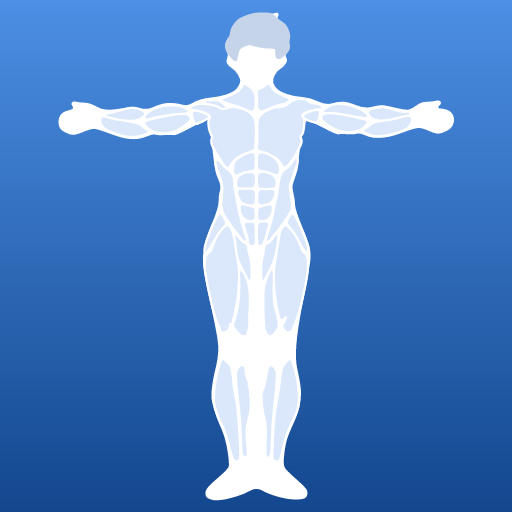
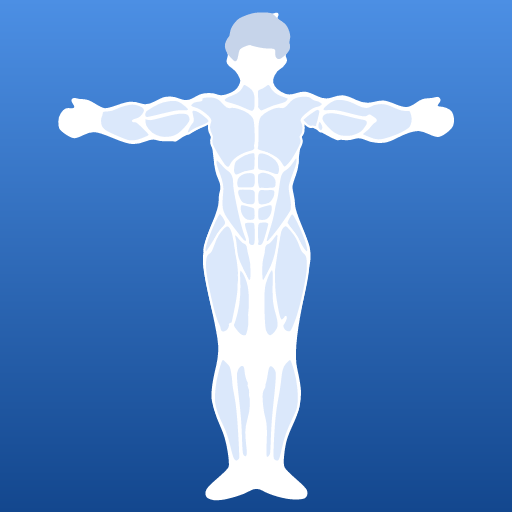
アイコンのTポーズの人の腕を太く（特に肩）
真横に回した腕を太さ方向に引き伸ばす（肩で約1.45倍、手に向かって約1.15倍）。
記録が空の日のイラストも同じ形になる。

Changed region(s): [[0.125, 0.1562, 0.4375, 0.2812], [0.5625, 0.1562, 0.875, 0.2812]]

diff --git a/src/illustrations/tposeShapes.ts b/src/illustrations/tposeShapes.ts
@@ -1,24 +1,21 @@
 // このファイルは scripts/make-tpose.py で自動生成（人の図を T ポーズに組み替えたもの。アプリアイコン用）
 
 export const TPOSE_VIEWBOX = { width: 461, height: 567 };
-export const TPOSE_BASE = 'M191.5 564.8Q187.0 565.3 184.5 565.4Q182.0 565.5 178.5 564.4Q175.0 563.3 173.9 562.1Q172.8 561.0 172.2 558.5Q171.6 556.0 173.5 552.5Q175.5 549.0 186.5 539.5Q197.5 530.0 198.8 527.0Q200.2 524.0 197.7 508.5Q195.3 493.0 190.0 481.5Q184.8 470.0 182.1 460.5Q179.5 451.0 179.2 447.5Q178.8 444.0 179.7 435.5Q180.5 427.0 184.5 410.5Q188.5 394.0 186.0 378.5Q183.5 363.0 177.0 334.0Q170.5 305.0 169.5 294.0Q168.5 283.0 171.1 271.5Q173.7 260.0 180.5 244.0Q187.3 228.0 187.4 220.5Q187.5 213.0 188.5 210.0Q189.5 207.0 189.4 203.5Q189.3 200.0 187.0 195.0Q184.7 190.0 183.6 185.0Q182.5 180.0 179.5 153.5Q176.4 127.0 175.7 126.4Q175.0 125.8 170.5 127.8Q166.0 129.8 152.0 137.2Q138.0 144.7 135.5 144.1Q133.0 143.5 125.0 144.0Q117.0 144.5 114.5 143.5Q112.0 142.6 106.5 144.9Q101.0 147.3 95.5 148.2Q90.0 149.2 82.5 148.2Q75.0 147.3 61.0 142.0Q47.0 136.8 43.5 136.8Q40.0 136.8 31.0 140.5Q22.0 144.2 18.5 143.7Q15.0 143.3 10.8 141.1Q6.6 139.0 4.7 136.5Q2.8 134.0 2.6 129.0Q2.5 124.0 5.3 120.4Q8.0 116.8 14.6 115.4Q21.2 114.0 19.0 111.0Q16.8 108.0 18.4 106.3Q20.0 104.6 23.0 105.5Q26.0 106.5 32.5 106.6Q39.0 106.7 47.5 111.6Q56.0 116.5 71.5 113.8Q87.0 111.1 96.0 113.0Q105.0 114.9 110.5 112.3Q116.0 109.7 122.0 108.1Q128.0 106.5 134.5 107.0Q141.0 107.5 146.0 109.0Q151.0 110.5 156.0 107.6Q161.0 104.8 165.5 103.3Q170.0 101.7 179.5 100.6Q189.0 99.5 195.5 97.4Q202.0 95.3 205.5 92.8Q209.0 90.4 210.7 86.7Q212.5 83.0 212.4 81.0Q212.2 79.0 209.6 74.3Q207.0 69.7 203.0 67.1Q199.0 64.5 197.3 61.7Q195.6 59.0 197.2 55.5Q198.9 52.0 197.3 48.0Q195.7 44.0 195.6 41.5Q195.5 39.0 196.1 37.0Q196.8 35.0 199.0 32.5Q201.2 30.0 202.0 25.0Q202.7 20.0 205.4 16.3Q208.0 12.5 213.0 9.6Q218.0 6.7 225.0 5.1Q232.0 3.5 240.5 4.0Q249.0 4.5 252.0 3.3Q255.0 2.1 256.1 3.6Q257.2 5.0 255.8 7.5Q254.4 10.0 257.4 11.5Q260.4 13.0 263.2 15.8Q266.0 18.7 267.7 24.8Q269.5 31.0 268.5 33.5Q267.6 36.0 268.5 38.0Q269.5 40.0 269.4 42.0Q269.3 44.0 266.7 48.0Q264.1 52.0 265.2 54.0Q266.3 56.0 266.3 58.0Q266.3 60.0 263.6 63.2Q261.0 66.5 258.0 68.1Q255.0 69.6 252.3 74.8Q249.5 80.0 250.6 84.0Q251.7 88.0 255.4 91.1Q259.0 94.3 267.0 96.9Q275.0 99.5 284.0 100.1Q293.0 100.7 302.0 105.1Q311.0 109.4 318.0 107.5Q325.0 105.5 330.5 105.5Q336.0 105.5 346.0 109.5Q356.0 113.5 364.0 111.5Q372.0 109.5 375.5 109.5Q379.0 109.5 391.5 112.5Q404.0 115.5 407.5 114.4Q411.0 113.3 416.0 109.5Q421.0 105.7 427.5 105.6Q434.0 105.5 437.5 104.5Q441.0 103.6 442.5 104.6Q444.0 105.7 444.1 106.8Q444.2 108.0 441.6 110.5Q439.1 113.0 443.0 113.3Q447.0 113.5 450.7 114.8Q454.3 116.0 456.3 118.5Q458.3 121.0 458.9 124.5Q459.5 128.0 457.7 132.2Q456.0 136.5 450.0 139.5Q444.0 142.5 440.5 142.4Q437.0 142.3 429.5 139.0Q422.0 135.7 418.0 135.8Q414.0 135.8 400.0 141.0Q386.0 146.3 377.5 146.9Q369.0 147.5 365.0 146.9Q361.0 146.3 355.5 143.9Q350.0 141.5 346.5 142.5Q343.0 143.5 335.5 143.0Q328.0 142.5 326.0 143.2Q324.0 143.9 309.5 136.3Q295.0 128.8 290.5 127.4Q285.9 126.0 282.7 148.5Q279.5 171.0 279.5 176.5Q279.5 182.0 276.1 191.5Q272.7 201.0 272.6 203.5Q272.5 206.0 274.0 212.5Q275.5 219.0 275.6 224.5Q275.7 230.0 283.5 249.0Q291.3 268.0 292.4 273.0Q293.5 278.0 293.5 285.0Q293.5 292.0 283.5 342.5Q273.5 393.0 278.0 413.0Q282.5 433.0 282.5 441.5Q282.5 450.0 280.4 458.5Q278.3 467.0 272.5 479.5Q266.7 492.0 265.1 499.5Q263.5 507.0 262.8 515.5Q262.1 524.0 263.5 527.2Q265.0 530.5 276.7 540.7Q288.5 551.0 289.4 554.0Q290.3 557.0 289.6 559.2Q289.0 561.3 287.0 562.8Q285.0 564.3 276.5 564.4Q268.0 564.5 256.5 561.4Q245.0 558.2 238.0 554.2Q231.0 550.1 224.0 554.2Q217.0 558.3 206.5 561.3Q196.0 564.3 191.5 564.8Z';
+export const TPOSE_BASE = 'M191.5 564.8Q187.0 565.3 184.5 565.4Q182.0 565.5 178.5 564.4Q175.0 563.3 173.9 562.1Q172.8 561.0 172.2 558.5Q171.6 556.0 173.5 552.5Q175.5 549.0 186.5 539.5Q197.5 530.0 198.8 527.0Q200.2 524.0 197.7 508.5Q195.3 493.0 190.0 481.5Q184.8 470.0 182.1 460.5Q179.5 451.0 179.2 447.5Q178.8 444.0 179.7 435.5Q180.5 427.0 184.5 410.5Q188.5 394.0 186.0 378.5Q183.5 363.0 177.0 334.0Q170.5 305.0 169.5 294.0Q168.5 283.0 171.1 271.5Q173.7 260.0 180.5 244.0Q187.3 228.0 187.4 220.5Q187.5 213.0 188.5 210.0Q189.5 207.0 189.4 203.5Q189.3 200.0 187.0 195.0Q184.7 190.0 183.6 185.0Q182.5 180.0 179.9 156.5Q177.3 133.0 176.6 132.2Q176.0 131.3 174.5 131.5Q173.0 131.8 165.0 136.5Q157.0 141.2 151.5 143.5Q146.0 145.8 142.0 149.0Q138.0 152.2 136.5 151.5Q135.0 150.8 127.5 151.1Q120.0 151.5 115.5 149.8Q111.0 148.1 103.5 151.2Q96.0 154.3 89.0 154.4Q82.0 154.5 65.5 147.5Q49.0 140.5 43.5 140.6Q38.0 140.7 31.5 144.0Q25.0 147.3 21.5 147.6Q18.0 147.9 11.4 143.5Q4.7 139.0 3.6 136.5Q2.5 134.0 2.5 128.5Q2.5 123.0 5.3 118.9Q8.0 114.7 10.5 113.6Q13.0 112.5 15.5 113.0Q18.0 113.4 20.0 112.7Q22.0 112.0 19.3 108.0Q16.6 104.0 18.3 102.3Q20.0 100.6 23.0 101.5Q26.0 102.5 31.5 102.6Q37.0 102.7 44.5 107.5Q52.0 112.2 55.5 112.9Q59.0 113.5 70.0 109.5Q81.0 105.5 86.5 105.5Q92.0 105.5 98.5 107.7Q105.0 109.9 113.5 105.3Q122.0 100.7 125.0 100.1Q128.0 99.5 132.5 99.6Q137.0 99.7 144.0 102.5Q151.0 105.2 157.5 101.5Q164.0 97.7 167.5 96.6Q171.0 95.5 176.5 95.5Q182.0 95.5 186.0 97.2Q190.0 98.9 196.0 97.1Q202.0 95.3 205.5 92.8Q209.0 90.4 210.7 86.7Q212.5 83.0 212.4 81.0Q212.2 79.0 209.6 74.3Q207.0 69.7 203.0 67.1Q199.0 64.5 197.3 61.7Q195.6 59.0 197.2 55.5Q198.9 52.0 197.3 48.0Q195.7 44.0 195.6 41.5Q195.5 39.0 196.1 37.0Q196.8 35.0 199.0 32.5Q201.2 30.0 202.0 25.0Q202.7 20.0 205.4 16.3Q208.0 12.5 213.0 9.6Q218.0 6.7 225.0 5.1Q232.0 3.5 240.5 4.0Q249.0 4.5 252.0 3.3Q255.0 2.1 256.1 3.6Q257.2 5.0 255.8 7.5Q254.4 10.0 257.4 11.5Q260.4 13.0 263.2 15.8Q266.0 18.7 267.7 24.8Q269.5 31.0 268.5 33.5Q267.6 36.0 268.5 38.0Q269.5 40.0 269.4 42.0Q269.3 44.0 266.7 48.0Q264.1 52.0 265.2 54.0Q266.3 56.0 266.3 58.0Q266.3 60.0 263.6 63.2Q261.0 66.5 258.0 68.1Q255.0 69.6 252.3 74.8Q249.5 80.0 250.6 84.0Q251.7 88.0 255.4 91.1Q259.0 94.3 264.0 96.2Q269.0 98.2 276.0 95.9Q283.0 93.6 287.5 94.0Q292.0 94.5 301.0 99.0Q310.0 103.5 318.0 100.6Q326.0 97.8 331.0 98.2Q336.0 98.5 346.0 103.4Q356.0 108.3 365.5 105.9Q375.0 103.5 379.5 104.4Q384.0 105.3 392.0 108.6Q400.0 111.9 404.5 111.6Q409.0 111.3 415.5 106.5Q422.0 101.7 428.0 101.6Q434.0 101.5 437.5 100.3Q441.0 99.1 442.7 101.6Q444.5 104.0 441.5 107.5Q438.5 111.0 442.3 111.0Q446.0 111.1 450.5 112.8Q455.0 114.5 456.6 117.3Q458.3 120.0 458.9 124.5Q459.5 129.0 458.0 133.0Q456.5 137.0 450.2 141.6Q444.0 146.2 440.5 146.2Q437.0 146.3 430.0 143.0Q423.0 139.7 418.5 139.4Q414.0 139.1 407.0 141.4Q400.0 143.8 393.0 147.5Q386.0 151.3 381.0 152.4Q376.0 153.5 369.0 152.9Q362.0 152.3 356.0 149.4Q350.0 146.6 344.0 148.5Q338.0 150.5 332.5 149.8Q327.0 149.1 325.5 150.0Q324.0 150.9 306.0 140.8Q288.0 130.8 287.0 130.9Q285.9 131.0 282.7 151.0Q279.5 171.0 279.5 176.5Q279.5 182.0 276.1 191.5Q272.7 201.0 272.6 203.5Q272.5 206.0 274.0 212.5Q275.5 219.0 275.6 224.5Q275.7 230.0 283.5 249.0Q291.3 268.0 292.4 273.0Q293.5 278.0 293.5 285.0Q293.5 292.0 283.5 342.5Q273.5 393.0 278.0 413.0Q282.5 433.0 282.5 441.5Q282.5 450.0 280.4 458.5Q278.3 467.0 272.5 479.5Q266.7 492.0 265.1 499.5Q263.5 507.0 262.8 515.5Q262.1 524.0 263.5 527.2Q265.0 530.5 276.7 540.7Q288.5 551.0 289.4 554.0Q290.3 557.0 289.6 559.2Q289.0 561.3 287.0 562.8Q285.0 564.3 276.5 564.4Q268.0 564.5 256.5 561.4Q245.0 558.2 238.0 554.2Q231.0 550.1 224.0 554.2Q217.0 558.3 206.5 561.3Q196.0 564.3 191.5 564.8Z';
 export const TPOSE_HAIR = 'M208.1 58.1Q207.0 59.2 206.0 58.8Q205.0 58.5 201.4 54.7Q197.7 51.0 196.2 47.5Q194.7 44.0 194.6 41.5Q194.5 39.0 196.0 35.5Q197.6 32.0 198.8 31.0Q200.1 30.0 200.4 26.5Q200.8 23.0 202.3 20.0Q203.7 17.0 206.4 13.9Q209.0 10.7 211.5 9.2Q214.0 7.7 219.5 5.7Q225.0 3.7 228.5 3.1Q232.0 2.5 238.5 2.5Q245.0 2.5 247.7 3.3Q250.3 4.0 253.0 7.0Q255.6 10.0 259.0 12.0Q262.3 14.0 264.3 16.0Q266.3 18.0 267.8 21.5Q269.3 25.0 269.8 28.0Q270.4 31.0 269.5 34.0Q268.5 37.0 269.5 40.0Q270.5 43.0 269.0 46.0Q267.5 49.0 263.4 52.5Q259.3 56.0 257.7 56.2Q256.0 56.5 254.8 55.7Q253.6 55.0 253.0 53.0Q252.5 51.0 252.8 47.5Q253.0 44.0 247.5 44.2Q242.0 44.5 234.0 42.9Q226.0 41.2 224.5 40.4Q223.0 39.6 217.8 41.8Q212.5 44.0 211.6 46.0Q210.7 48.0 210.0 52.5Q209.2 57.0 208.1 58.1Z';
 export const TPOSE_MUSCLES = [
-  'M227.5 116.8Q226.0 118.2 218.0 114.5Q210.0 110.7 202.5 108.8Q195.0 106.9 192.8 105.5Q190.6 104.0 190.6 103.0Q190.6 102.0 199.3 98.6Q208.0 95.2 210.5 92.8Q213.0 90.4 214.3 87.7Q215.5 85.0 216.8 84.8Q218.0 84.6 224.1 88.8Q230.2 93.0 230.2 102.5Q230.2 112.0 229.6 113.7Q229.0 115.3 227.5 116.8Z',
-  'M247.0 113.0Q237.0 117.2 236.0 116.8Q235.0 116.5 233.1 114.2Q231.1 112.0 231.7 110.5Q232.2 109.0 231.7 101.0Q231.1 93.0 232.1 91.9Q233.0 90.8 235.5 90.0Q238.0 89.3 241.0 86.9Q244.0 84.6 245.2 84.8Q246.5 85.0 248.1 88.0Q249.7 91.0 251.4 92.6Q253.0 94.3 261.2 98.1Q269.4 102.0 269.4 103.0Q269.4 104.0 267.2 106.1Q265.0 108.2 261.0 108.5Q257.0 108.7 247.0 113.0Z',
-  'M268.1 178.1Q264.0 182.2 262.8 181.6Q261.5 181.0 259.8 177.8Q258.0 174.6 256.0 172.7Q254.0 170.7 248.5 167.7Q243.0 164.7 238.0 163.5Q233.0 162.2 231.9 161.1Q230.8 160.0 231.5 158.0Q232.2 156.0 232.0 141.0Q231.8 126.0 233.9 123.3Q236.0 120.5 238.5 118.6Q241.0 116.7 246.0 114.2Q251.0 111.7 257.0 111.7Q263.0 111.7 267.0 108.2Q271.0 104.7 275.5 103.2Q280.0 101.7 284.5 102.3Q289.0 102.8 291.0 105.0Q293.0 107.2 297.0 107.4Q301.0 107.5 303.5 108.6Q306.0 109.8 306.9 110.9Q307.9 112.0 306.9 113.1Q306.0 114.2 299.5 115.0Q293.0 115.7 289.5 117.3Q286.0 118.8 284.7 119.9Q283.4 121.0 284.8 123.0Q286.2 125.0 286.4 127.5Q286.5 130.0 285.9 135.0Q285.3 140.0 284.7 141.5Q284.2 143.0 282.8 144.5Q281.4 146.0 282.3 147.5Q283.2 149.0 283.2 151.5Q283.3 154.0 277.8 164.0Q272.3 174.0 268.1 178.1Z',
-  'M196.1 114.1Q195.0 115.2 193.5 115.2Q192.0 115.2 186.5 112.5Q181.0 109.7 176.5 109.0Q172.0 108.2 171.1 107.1Q170.1 106.0 171.6 104.8Q173.0 103.5 180.0 103.6Q187.0 103.8 189.2 104.9Q191.3 106.0 194.2 108.9Q197.0 111.7 197.1 112.4Q197.2 113.0 196.1 114.1Z',
-  'M200.1 181.1Q199.0 182.2 197.5 181.7Q196.0 181.3 194.5 179.8Q193.0 178.4 186.4 167.7Q179.8 157.0 179.1 153.5Q178.5 150.0 179.4 148.0Q180.2 146.0 178.5 143.0Q176.7 140.0 176.1 135.5Q175.5 131.0 175.6 128.5Q175.8 126.0 177.1 124.0Q178.5 122.0 173.8 119.4Q169.0 116.8 162.5 116.0Q156.0 115.2 155.1 114.1Q154.1 113.0 156.1 110.9Q158.0 108.8 164.0 108.3Q170.0 107.7 176.0 108.6Q182.0 109.5 185.0 110.6Q188.0 111.8 190.0 113.3Q192.0 114.9 198.0 112.7Q204.0 110.5 211.0 112.6Q218.0 114.8 220.7 116.4Q223.4 118.0 225.3 120.0Q227.3 122.0 228.5 124.5Q229.7 127.0 230.1 130.5Q230.5 134.0 230.3 144.0Q230.2 154.0 229.7 155.0Q229.1 156.0 229.7 157.5Q230.2 159.0 229.1 160.7Q228.0 162.4 223.5 163.6Q219.0 164.7 213.8 167.4Q208.6 170.0 205.8 172.8Q203.0 175.6 202.1 177.8Q201.2 180.0 200.1 181.1Z',
-  'M359.1 124.1Q358.0 125.2 339.5 121.9Q321.0 118.5 314.5 118.7Q308.0 118.9 307.1 117.9Q306.1 117.0 309.1 114.4Q312.0 111.7 315.5 110.2Q319.0 108.7 321.5 108.2Q324.0 107.6 329.0 108.0Q334.0 108.5 337.0 109.1Q340.0 109.7 346.5 112.2Q353.0 114.7 356.1 117.4Q359.3 120.0 359.7 121.5Q360.2 123.0 359.1 124.1Z',
-  'M110.0 125.0Q106.0 126.2 104.5 126.1Q103.0 125.9 102.1 125.0Q101.1 124.0 102.1 121.8Q103.0 119.5 107.5 116.6Q112.0 113.8 118.5 111.6Q125.0 109.5 134.0 109.6Q143.0 109.7 147.5 112.2Q152.0 114.7 152.9 115.9Q153.9 117.0 152.4 118.2Q151.0 119.5 141.5 120.0Q132.0 120.5 123.0 122.1Q114.0 123.7 110.0 125.0Z',
-  'M390.0 125.8Q382.0 127.3 378.0 127.4Q374.0 127.5 370.5 126.9Q367.0 126.3 364.5 124.9Q362.0 123.5 360.1 120.7Q358.1 118.0 360.1 115.9Q362.0 113.8 369.0 112.6Q376.0 111.5 381.5 112.6Q387.0 113.7 392.5 115.6Q398.0 117.5 403.0 117.1Q408.0 116.8 408.9 117.9Q409.9 119.0 408.9 120.1Q408.0 121.2 403.0 122.7Q398.0 124.3 390.0 125.8Z',
-  'M91.5 127.2Q86.0 128.3 77.5 127.3Q69.0 126.3 63.5 124.7Q58.0 123.2 57.1 122.1Q56.1 121.0 57.1 119.9Q58.0 118.8 61.0 118.5Q64.0 118.3 74.0 115.4Q84.0 112.5 87.5 112.5Q91.0 112.5 95.0 113.6Q99.0 114.8 101.1 116.9Q103.2 119.0 102.8 120.0Q102.5 121.0 99.7 123.6Q97.0 126.2 91.5 127.2Z',
-  'M301.1 129.1Q300.0 130.2 294.0 128.3Q288.0 126.4 286.3 124.7Q284.6 123.0 284.6 122.0Q284.6 121.0 287.3 119.4Q290.0 117.7 294.5 116.2Q299.0 114.7 301.0 114.8Q303.0 114.8 304.1 116.4Q305.2 118.0 303.7 123.0Q302.2 128.0 301.1 129.1Z',
-  'M169.2 128.1Q163.0 131.2 162.0 131.2Q161.0 131.2 159.9 130.1Q158.8 129.0 157.3 124.0Q155.8 119.0 156.7 117.5Q157.7 116.0 159.3 115.8Q161.0 115.5 163.5 116.1Q166.0 116.7 170.0 118.3Q174.0 119.8 175.2 120.9Q176.4 122.0 176.7 122.5Q176.9 123.0 176.1 124.0Q175.3 125.0 169.2 128.1Z',
-  'M346.2 139.6Q340.0 141.3 332.0 140.2Q324.0 139.2 317.0 134.9Q310.0 130.5 307.9 128.2Q305.8 126.0 305.8 124.0Q305.8 122.0 306.9 120.9Q308.0 119.8 309.5 119.3Q311.0 118.7 315.0 118.6Q319.0 118.5 329.0 120.1Q339.0 121.7 348.0 123.9Q357.0 126.1 358.2 127.0Q359.4 128.0 359.4 129.5Q359.3 131.0 355.8 134.5Q352.3 138.0 346.2 139.6Z',
-  'M131.5 141.3Q127.0 142.3 121.5 141.9Q116.0 141.5 112.0 139.9Q108.0 138.3 104.9 135.1Q101.7 132.0 101.6 130.5Q101.6 129.0 102.8 127.9Q104.0 126.8 121.5 123.1Q139.0 119.5 145.0 119.5Q151.0 119.5 153.0 121.1Q155.0 122.7 155.2 124.3Q155.5 126.0 155.0 127.0Q154.5 128.0 148.9 132.5Q143.3 137.0 139.7 138.6Q136.0 140.3 131.5 141.3Z',
-  'M384.0 143.8Q377.0 145.3 372.5 145.4Q368.0 145.5 365.5 144.9Q363.0 144.3 359.0 142.8Q355.0 141.3 354.1 140.1Q353.1 139.0 354.1 137.9Q355.0 136.7 357.5 135.6Q360.0 134.5 363.0 131.6Q366.0 128.8 376.5 127.6Q387.0 126.5 397.0 123.6Q407.0 120.8 408.6 121.9Q410.3 123.0 410.7 126.0Q411.2 129.0 408.1 133.1Q405.0 137.3 398.0 139.8Q391.0 142.3 384.0 143.8Z',
-  'M100.0 144.3Q94.0 146.3 88.5 146.3Q83.0 146.3 78.5 145.3Q74.0 144.3 65.5 141.3Q57.0 138.3 53.9 134.6Q50.7 131.0 50.8 127.5Q50.8 124.0 52.4 122.8Q54.0 121.6 60.0 123.5Q66.0 125.5 80.5 127.6Q95.0 129.8 98.3 132.9Q101.6 136.0 104.5 137.5Q107.4 139.0 107.4 140.0Q107.4 141.0 106.7 141.6Q106.0 142.3 100.0 144.3Z',
+  'M227.5 116.8Q226.0 118.2 218.0 114.5Q210.0 110.7 203.0 108.8Q196.0 106.9 194.8 106.0Q193.5 105.0 193.2 104.0Q192.8 103.0 194.4 101.4Q196.0 99.8 202.2 97.4Q208.3 95.0 210.7 92.7Q213.0 90.4 214.3 87.7Q215.5 85.0 216.8 84.8Q218.0 84.6 224.1 88.8Q230.2 93.0 230.2 102.5Q230.2 112.0 229.6 113.7Q229.0 115.3 227.5 116.8Z',
+  'M244.0 114.0Q237.0 117.2 236.0 116.8Q235.0 116.5 233.1 114.2Q231.1 112.0 231.7 110.5Q232.2 109.0 231.7 101.0Q231.1 93.0 232.1 91.9Q233.0 90.8 235.5 90.0Q238.0 89.3 241.0 86.9Q244.0 84.6 245.2 84.8Q246.5 85.0 248.1 88.0Q249.7 91.0 251.4 92.6Q253.0 94.3 255.5 95.8Q258.0 97.3 263.2 99.1Q268.4 101.0 268.4 102.0Q268.4 103.0 266.7 105.2Q265.0 107.4 258.0 109.1Q251.0 110.7 244.0 114.0Z',
+  'M200.1 181.1Q199.0 182.2 197.5 181.7Q196.0 181.3 194.5 179.8Q193.0 178.4 186.4 167.7Q179.8 157.0 179.1 153.5Q178.5 150.0 179.4 148.0Q180.2 146.0 178.5 143.0Q176.7 140.0 176.3 136.0Q175.8 132.0 177.5 129.0Q179.2 126.0 172.1 120.4Q165.0 114.7 160.5 113.5Q156.0 112.2 154.9 111.1Q153.8 110.0 155.9 107.4Q158.0 104.8 163.0 104.4Q168.0 104.0 167.6 103.0Q167.1 102.0 168.1 100.9Q169.0 99.8 174.0 99.4Q179.0 99.1 182.5 99.9Q186.0 100.8 188.2 102.4Q190.5 104.0 194.2 108.3Q198.0 112.6 201.0 111.6Q204.0 110.6 211.0 112.7Q218.0 114.8 222.2 117.9Q226.5 121.0 228.1 124.0Q229.7 127.0 230.1 137.5Q230.5 148.0 230.3 151.0Q230.2 154.0 229.7 155.0Q229.1 156.0 229.7 157.5Q230.2 159.0 229.7 160.0Q229.3 161.0 228.1 162.0Q227.0 162.9 223.0 163.8Q219.0 164.7 214.0 167.2Q209.0 169.7 206.0 172.7Q203.0 175.6 202.1 177.8Q201.2 180.0 200.1 181.1Z',
+  'M268.1 178.1Q264.0 182.2 262.8 181.6Q261.5 181.0 259.8 177.8Q258.0 174.6 256.0 172.7Q254.0 170.7 248.5 167.7Q243.0 164.7 238.0 163.5Q233.0 162.2 231.9 161.1Q230.8 160.0 231.5 158.0Q232.2 156.0 232.0 141.0Q231.8 126.0 235.2 122.0Q238.6 118.0 244.8 114.9Q251.0 111.7 254.5 111.4Q258.0 111.1 260.5 111.6Q263.0 112.0 266.5 107.8Q270.0 103.5 273.0 101.6Q276.0 99.8 279.5 99.1Q283.0 98.5 286.5 98.5Q290.0 98.5 292.0 99.1Q294.0 99.8 295.7 101.4Q297.4 103.0 300.2 103.4Q303.0 103.8 305.2 105.4Q307.5 107.0 307.8 108.0Q308.2 109.0 306.1 110.6Q304.0 112.3 302.0 112.5Q300.0 112.7 297.0 114.2Q294.0 115.7 287.9 120.9Q281.7 126.0 283.6 128.5Q285.5 131.0 285.4 135.5Q285.3 140.0 284.7 141.5Q284.2 143.0 282.8 144.5Q281.4 146.0 282.3 147.5Q283.2 149.0 283.2 151.5Q283.3 154.0 277.8 164.0Q272.3 174.0 268.1 178.1Z',
+  'M387.0 146.8Q377.0 150.3 372.0 150.3Q367.0 150.3 359.8 147.1Q352.6 144.0 352.6 143.0Q352.6 142.0 356.3 139.2Q360.0 136.5 362.5 133.0Q365.0 129.5 367.6 128.3Q370.2 127.0 366.1 124.3Q362.0 121.6 361.5 121.5Q361.0 121.4 359.5 122.6Q358.0 123.9 354.5 123.7Q351.0 123.4 339.0 120.3Q327.0 117.1 322.5 116.6Q318.0 116.1 313.5 116.5Q309.0 116.9 307.9 115.9Q306.8 115.0 307.3 113.5Q307.7 112.0 311.9 108.4Q316.0 104.8 320.5 103.1Q325.0 101.5 332.0 102.6Q339.0 103.7 348.0 108.5Q357.0 113.2 361.5 110.5Q366.0 107.7 371.5 107.2Q377.0 106.6 381.0 107.7Q385.0 108.7 392.0 112.0Q399.0 115.3 403.5 114.9Q408.0 114.6 408.8 115.8Q409.7 117.0 410.8 121.0Q411.9 125.0 411.1 129.0Q410.2 133.0 408.9 135.0Q407.5 137.0 402.2 140.1Q397.0 143.3 387.0 146.8Z',
+  'M121.0 120.9Q107.0 124.3 105.5 124.4Q104.0 124.5 102.8 123.7Q101.6 123.0 101.5 120.5Q101.5 118.0 102.0 117.0Q102.5 116.0 107.3 112.9Q112.0 109.7 117.5 107.2Q123.0 104.7 130.0 103.7Q137.0 102.7 141.0 104.2Q145.0 105.7 149.6 109.9Q154.2 114.0 153.1 115.4Q152.0 116.9 147.0 116.7Q142.0 116.5 138.5 117.0Q135.0 117.5 121.0 120.9Z',
+  'M99.5 148.7Q93.0 151.3 89.0 151.4Q85.0 151.5 82.5 150.9Q80.0 150.3 68.5 145.4Q57.0 140.5 54.5 137.9Q52.0 135.3 51.3 133.2Q50.5 131.0 50.5 127.5Q50.5 124.0 51.4 122.5Q52.2 121.0 52.4 119.0Q52.5 117.0 53.8 116.3Q55.0 115.5 59.5 115.4Q64.0 115.3 68.5 113.0Q73.0 110.7 79.0 109.1Q85.0 107.5 88.0 107.5Q91.0 107.5 95.5 109.0Q100.0 110.5 101.7 112.8Q103.4 115.0 101.9 118.0Q100.3 121.0 98.1 123.1Q96.0 125.3 92.5 126.1Q89.0 127.0 88.7 127.5Q88.4 128.0 90.2 127.9Q92.0 127.8 93.7 128.9Q95.4 130.0 101.4 136.0Q107.5 142.0 107.8 143.0Q108.2 144.0 107.1 145.1Q106.0 146.2 99.5 148.7Z',
+  'M156.0 140.0Q153.0 142.4 152.0 142.4Q151.0 142.4 150.7 141.2Q150.3 140.0 152.5 135.5Q154.7 131.0 156.5 129.5Q158.3 128.0 156.9 122.5Q155.6 117.0 156.3 115.8Q157.0 114.6 159.0 114.7Q161.0 114.7 164.0 116.2Q167.0 117.7 172.6 122.4Q178.2 127.0 176.6 129.1Q175.0 131.3 167.0 134.4Q159.0 137.6 156.0 140.0Z',
+  'M301.1 134.1Q300.0 135.2 298.0 134.7Q296.0 134.1 295.0 134.5Q294.0 134.9 292.0 134.2Q290.0 133.4 287.3 130.7Q284.5 128.0 284.2 127.0Q283.8 126.0 287.4 122.9Q291.0 119.7 295.5 116.8Q300.0 113.8 301.0 113.6Q302.0 113.5 303.2 114.3Q304.5 115.0 304.8 116.0Q305.2 117.0 303.9 122.0Q302.5 127.0 302.4 130.0Q302.2 133.0 301.1 134.1Z',
+  'M346.0 144.2Q341.0 146.3 336.0 146.2Q331.0 146.2 328.0 145.6Q325.0 144.9 321.0 142.6Q317.0 140.3 311.4 134.1Q305.8 128.0 305.9 124.8Q306.0 121.7 308.5 119.6Q311.0 117.5 317.0 117.5Q323.0 117.5 336.0 120.9Q349.0 124.3 353.5 124.9Q358.0 125.6 359.0 127.3Q359.9 129.0 359.7 130.5Q359.5 132.0 357.2 135.2Q355.0 138.4 353.0 140.3Q351.0 142.2 346.0 144.2Z',
+  'M133.0 146.7Q130.0 147.3 125.5 147.4Q121.0 147.5 115.3 145.2Q109.7 143.0 105.7 138.0Q101.8 133.0 101.7 129.0Q101.6 125.0 102.3 124.6Q103.0 124.1 104.5 124.8Q106.0 125.5 108.5 125.5Q111.0 125.5 124.5 121.8Q138.0 118.1 144.7 118.0Q151.3 118.0 153.3 120.5Q155.3 123.0 155.1 126.2Q155.0 129.3 149.2 135.7Q143.4 142.0 139.7 144.1Q136.0 146.2 133.0 146.7Z',
+  'M307.6 138.1Q306.0 140.2 304.8 139.6Q303.5 139.0 302.1 137.0Q300.8 135.0 301.3 132.0Q301.8 129.0 302.9 128.1Q304.0 127.1 305.1 128.1Q306.3 129.0 307.7 132.5Q309.2 136.0 307.6 138.1Z',
   'M213.0 189.0Q208.0 191.2 206.8 190.6Q205.5 190.0 204.5 188.0Q203.5 186.0 204.1 181.0Q204.8 176.0 205.9 174.3Q207.0 172.6 212.0 169.2Q217.0 165.8 222.6 164.4Q228.3 163.0 229.4 164.5Q230.5 166.0 230.2 174.7Q230.0 183.3 229.0 184.3Q228.0 185.2 223.0 186.0Q218.0 186.7 213.0 189.0Z',
   'M256.6 189.6Q255.0 191.2 249.5 189.0Q244.0 186.7 239.0 186.0Q234.0 185.2 233.3 184.6Q232.5 184.0 232.0 183.0Q231.5 182.0 231.5 175.0Q231.5 168.0 232.3 166.3Q233.0 164.5 235.0 164.0Q237.0 163.5 241.0 164.6Q245.0 165.7 249.7 168.9Q254.5 172.0 256.5 176.0Q258.5 180.0 258.4 184.0Q258.2 188.0 256.6 189.6Z',
   'M250.5 260.8Q245.0 267.3 244.0 267.6Q243.0 267.9 242.1 266.9Q241.1 266.0 245.2 253.0Q249.3 240.0 250.5 232.5Q251.7 225.0 253.1 220.5Q254.5 216.0 256.1 203.5Q257.7 191.0 259.6 188.0Q261.5 185.0 263.4 184.0Q265.3 183.0 267.7 180.7Q270.0 178.5 272.5 174.6Q275.0 170.6 276.0 169.9Q277.0 169.1 277.9 170.1Q278.9 171.0 278.6 174.5Q278.3 178.0 273.9 189.5Q269.5 201.0 269.5 204.0Q269.5 207.0 271.0 215.5Q272.4 224.0 272.0 225.5Q271.6 227.0 271.9 229.0Q272.3 231.0 264.1 242.7Q256.0 254.4 250.5 260.8Z',

diff --git a/scripts/make-tpose.py b/scripts/make-tpose.py
@@ -65,8 +65,31 @@ leg_deg = k
 canvas.alpha_composite(shear(left_leg, k))
 canvas.alpha_composite(shear(right_leg, -k))
 canvas.alpha_composite(layer(torso))
-canvas.alpha_composite(rot(left_arm, arm_deg, 146, 150))
-canvas.alpha_composite(rot(right_arm, -arm_deg, 250, 150))
+# 腕を太くする：真横に回した腕を、太さ方向（縦）にだけ引き伸ばす。
+# 付け根（肩）ほど太く、手に向かってだんだん弱める
+from scipy import ndimage
+
+def thicken(arm_img, shoulder_x, outward):
+    """outward：腕が伸びる向き（左腕は -1、右腕は +1）"""
+    a = np.array(arm_img).astype(float)
+    alpha = a[..., 3] > 8
+    h, w = alpha.shape
+    ys = np.arange(h)[:, None].repeat(w, 1).astype(float)
+    xs = np.arange(w)[None, :].repeat(h, 0).astype(float)
+    src_y = ys.copy()
+    cols = np.where(alpha.any(axis=0))[0]
+    length = max(1, abs(cols.max() - cols.min()))
+    for x in cols:
+        rows = np.where(alpha[:, x])[0]
+        center = (rows.min() + rows.max()) / 2
+        d = max(0.0, (x - shoulder_x) * outward) / length  # 0 = 肩、1 = 手
+        k = 1.45 - 0.30 * min(d, 1.0)
+        src_y[:, x] = center + (ys[:, x] - center) / k
+    out = np.stack([ndimage.map_coordinates(a[..., c], [src_y, xs], order=1) for c in range(4)], axis=-1)
+    return Image.fromarray(np.clip(out, 0, 255).astype(np.uint8), 'RGBA')
+
+canvas.alpha_composite(thicken(rot(left_arm, arm_deg, 146, 150), 146 + PAD, -1))
+canvas.alpha_composite(thicken(rot(right_arm, -arm_deg, 250, 150), 250 + PAD, +1))
 if out:
     canvas.convert('RGB').save(out)
 
